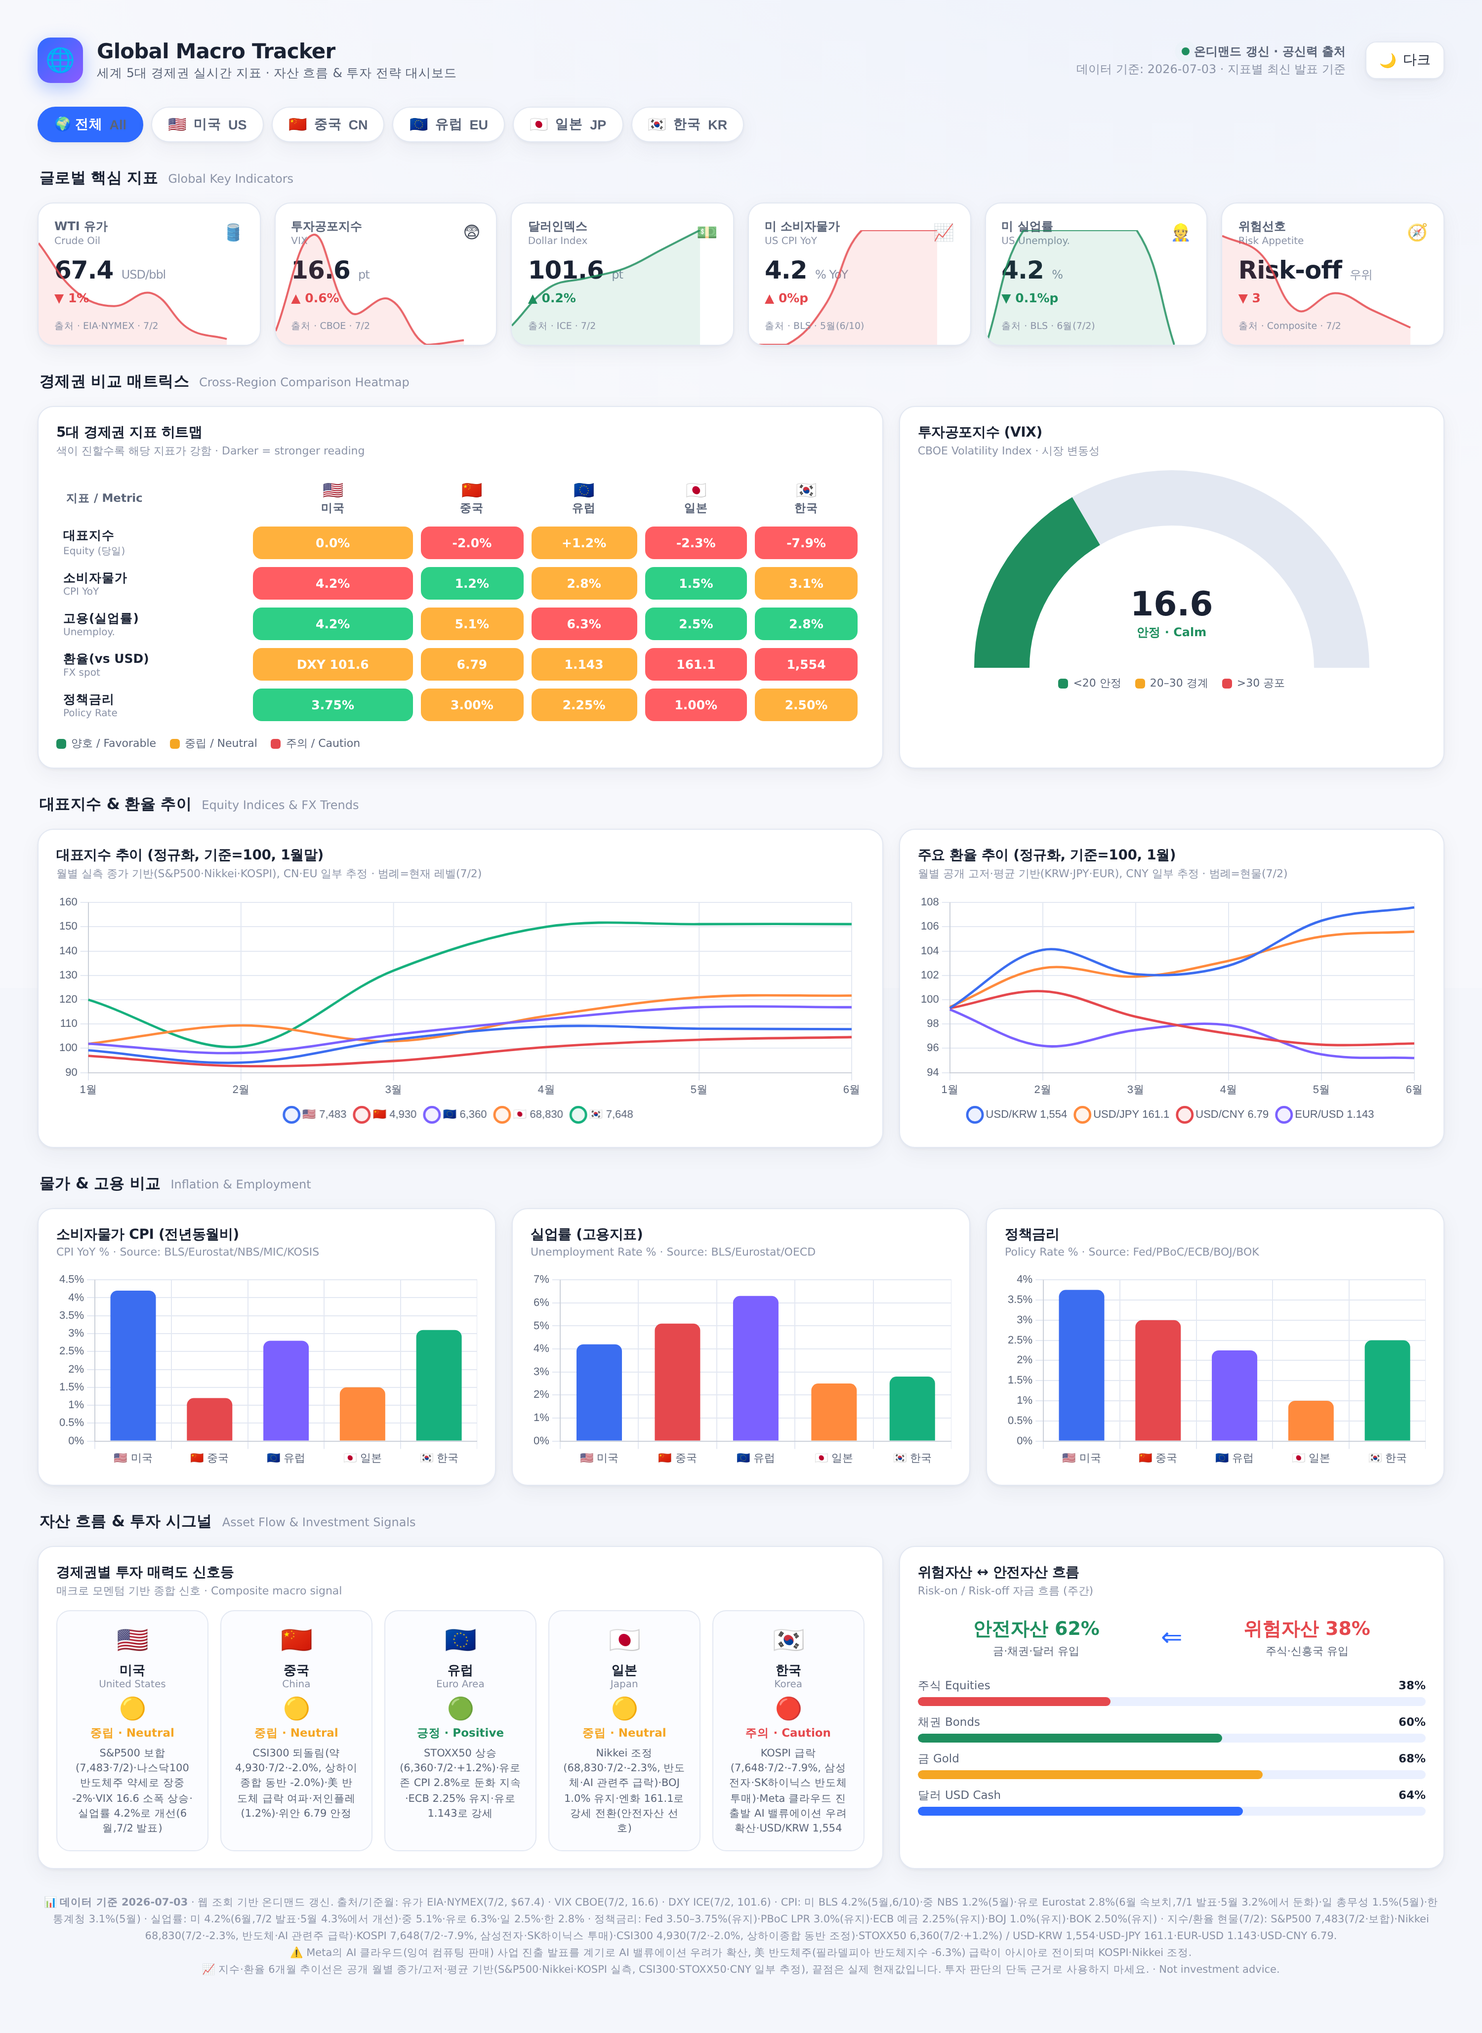
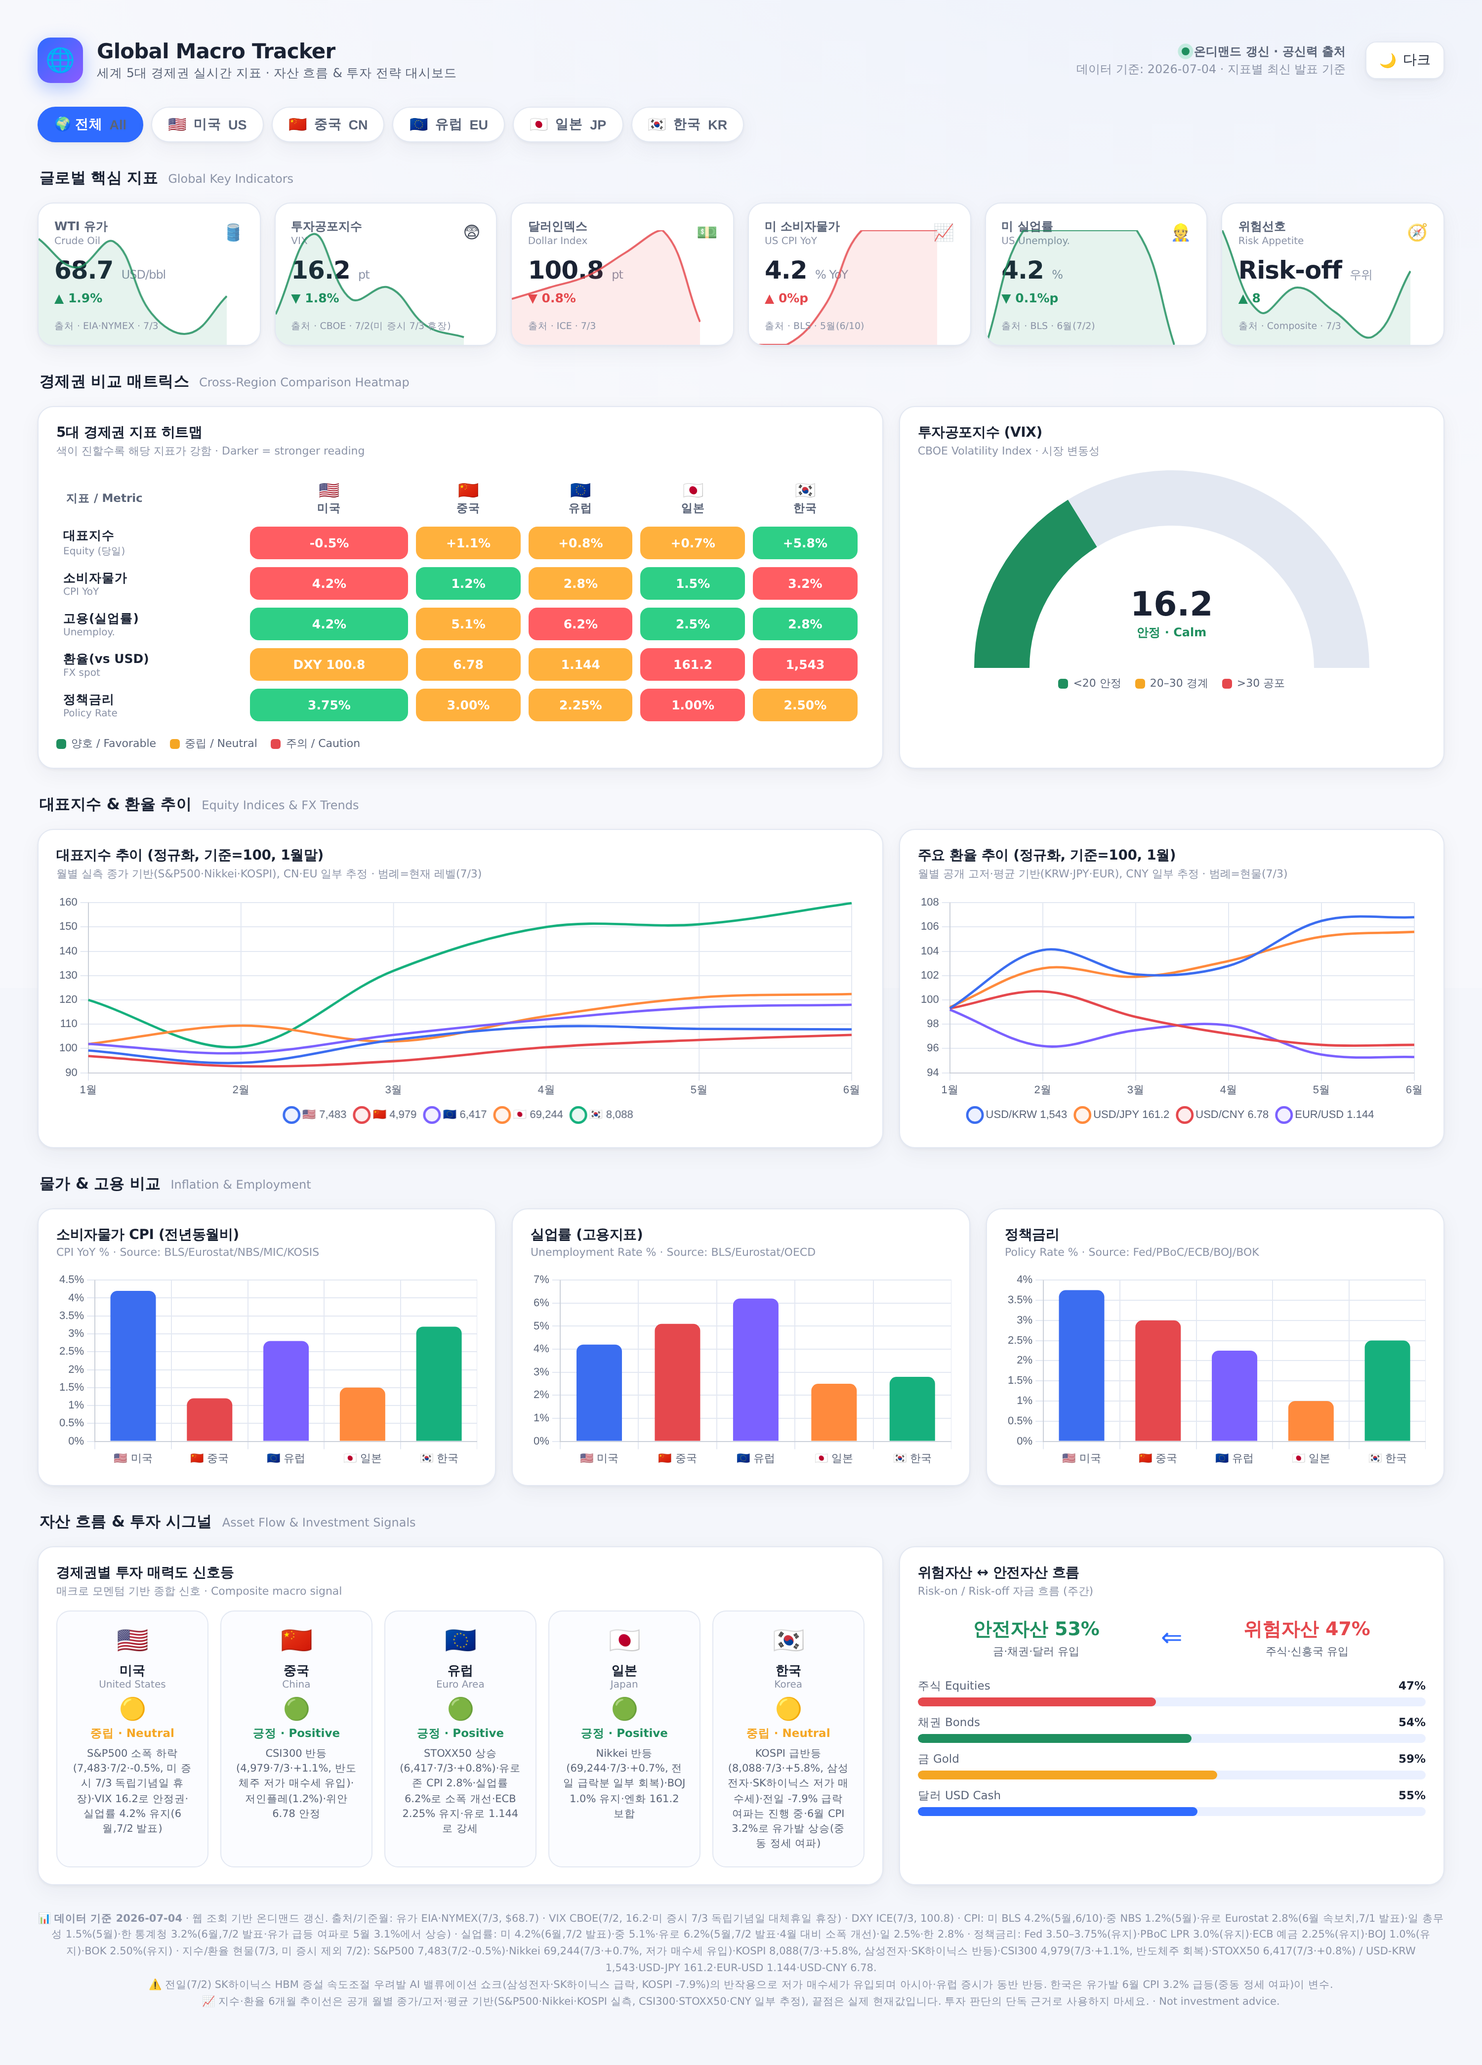
데이터 갱신 2026-07-04: 반도체주 저가매수 유입으로 KOSPI +5.8%·Nikkei·CSI300·STOXX50 동반 반등
- WTI: 67.4 → 68.7(7/3, EIA·NYMEX) · DXY: 101.6 → 100.8(7/3, ICE, 美 고용 둔화 여파)
- VIX: 16.6 → 16.2(7/2 실측치 반영, 미 증시 7/3 독립기념일 대체휴일 휴장)
- KOSPI: 7,648 → 8,088(7/3·+5.8%, 전일 -7.9% 급락 후 삼성전자·SK하이닉스 저가 매수세 유입)
- Nikkei: 68,830 → 69,244(7/3·+0.7%) · CSI300: 4,930 → 4,979(7/3·+1.1%) · STOXX50: 6,360 → 6,417(7/3·+0.8%)
- S&P500 7,483(7/2·-0.5%, 실측 반영) · USD/KRW 1,554→1,543 · USD/JPY 161.1→161.2 · USD/CNY 6.79→6.78 · EUR/USD 1.143→1.144
- 한국 CPI 3.1%→3.2%(6월, 유가 급등 여파) · 유로존 실업률 6.3%→6.2%(5월, 소폭 개선)
- 히트맵·시그널·자산흐름 신호등 갱신(위험선호 Risk-off 완화, 안전자산 53%/위험자산 47%)
- 헤더·푸터 기준일 2026-07-03 → 2026-07-04
- renders/mockup-dark.png / mockup-light.png 재렌더링(콘솔 에러 0)

Claude-Session: https://claude.ai/code/session_011bctqaHYLCamjJRjTs4aDb

diff --git a/index.html b/index.html
@@ -213,7 +213,7 @@
     <div class="spacer"></div>
     <div class="updated">
       <div><span class="live-dot"></span><b>온디맨드 갱신 · 공신력 출처</b></div>
-      <div id="updated-time">데이터 기준: 2026-07-03 · 지표별 최신 발표 기준</div>
+      <div id="updated-time">데이터 기준: 2026-07-04 · 지표별 최신 발표 기준</div>
     </div>
     <button class="theme-toggle" id="themeBtn">🌙 <span id="themeLabel">다크</span></button>
   </header>
@@ -274,12 +274,12 @@
   <div class="grid g-2">
     <div class="card">
       <h3>대표지수 추이 (정규화, 기준=100, 1월말)</h3>
-      <div class="h-en">월별 실측 종가 기반(S&amp;P500·Nikkei·KOSPI), CN·EU 일부 추정 · 범례=현재 레벨(7/2)</div>
+      <div class="h-en">월별 실측 종가 기반(S&amp;P500·Nikkei·KOSPI), CN·EU 일부 추정 · 범례=현재 레벨(7/3)</div>
       <div class="canvas-box"><canvas id="idxChart"></canvas></div>
     </div>
     <div class="card">
       <h3>주요 환율 추이 (정규화, 기준=100, 1월)</h3>
-      <div class="h-en">월별 공개 고저·평균 기반(KRW·JPY·EUR), CNY 일부 추정 · 범례=현물(7/2)</div>
+      <div class="h-en">월별 공개 고저·평균 기반(KRW·JPY·EUR), CNY 일부 추정 · 범례=현물(7/3)</div>
       <div class="canvas-box"><canvas id="fxChart"></canvas></div>
     </div>
   </div>
@@ -329,13 +329,13 @@
   </div>
 
   <div class="footnote">
-    📊 <b>데이터 기준 2026-07-03</b> · 웹 조회 기반 온디맨드 갱신. 출처/기준월:
-    유가 EIA·NYMEX(7/2, $67.4) · VIX CBOE(7/2, 16.6) · DXY ICE(7/2, 101.6) ·
-    CPI: 미 BLS 4.2%(5월,6/10)·중 NBS 1.2%(5월)·유로 Eurostat 2.8%(6월 속보치,7/1 발표·5월 3.2%에서 둔화)·일 총무성 1.5%(5월)·한 통계청 3.1%(5월) ·
-    실업률: 미 4.2%(6월,7/2 발표·5월 4.3%에서 개선)·중 5.1%·유로 6.3%·일 2.5%·한 2.8% ·
+    📊 <b>데이터 기준 2026-07-04</b> · 웹 조회 기반 온디맨드 갱신. 출처/기준월:
+    유가 EIA·NYMEX(7/3, $68.7) · VIX CBOE(7/2, 16.2·미 증시 7/3 독립기념일 대체휴일 휴장) · DXY ICE(7/3, 100.8) ·
+    CPI: 미 BLS 4.2%(5월,6/10)·중 NBS 1.2%(5월)·유로 Eurostat 2.8%(6월 속보치,7/1 발표)·일 총무성 1.5%(5월)·한 통계청 3.2%(6월,7/2 발표·유가 급등 여파로 5월 3.1%에서 상승) ·
+    실업률: 미 4.2%(6월,7/2 발표)·중 5.1%·유로 6.2%(5월,7/2 발표·4월 대비 소폭 개선)·일 2.5%·한 2.8% ·
     정책금리: Fed 3.50–3.75%(유지)·PBoC LPR 3.0%(유지)·ECB 예금 2.25%(유지)·BOJ 1.0%(유지)·BOK 2.50%(유지) ·
-    지수/환율 현물(7/2): S&amp;P500 7,483(7/2·보합)·Nikkei 68,830(7/2·-2.3%, 반도체·AI 관련주 급락)·KOSPI 7,648(7/2·-7.9%, 삼성전자·SK하이닉스 투매)·CSI300 4,930(7/2·-2.0%, 상하이종합 동반 조정)·STOXX50 6,360(7/2·+1.2%) / USD-KRW 1,554·USD-JPY 161.1·EUR-USD 1.143·USD-CNY 6.79.<br/>
-    ⚠ Meta의 AI 클라우드(잉여 컴퓨팅 판매) 사업 진출 발표를 계기로 AI 밸류에이션 우려가 확산, 美 반도체주(필라델피아 반도체지수 -6.3%) 급락이 아시아로 전이되며 KOSPI·Nikkei 조정.<br/>
+    지수/환율 현물(7/3, 미 증시 제외 7/2): S&amp;P500 7,483(7/2·-0.5%)·Nikkei 69,244(7/3·+0.7%, 저가 매수세 유입)·KOSPI 8,088(7/3·+5.8%, 삼성전자·SK하이닉스 반등)·CSI300 4,979(7/3·+1.1%, 반도체주 회복)·STOXX50 6,417(7/3·+0.8%) / USD-KRW 1,543·USD-JPY 161.2·EUR-USD 1.144·USD-CNY 6.78.<br/>
+    ⚠ 전일(7/2) SK하이닉스 HBM 증설 속도조절 우려발 AI 밸류에이션 쇼크(삼성전자·SK하이닉스 급락, KOSPI -7.9%)의 반작용으로 저가 매수세가 유입되며 아시아·유럽 증시가 동반 반등. 한국은 유가발 6월 CPI 3.2% 급등(중동 정세 여파)이 변수.<br/>
     📈 지수·환율 6개월 추이선은 공개 월별 종가/고저·평균 기반(S&amp;P500·Nikkei·KOSPI 실측, CSI300·STOXX50·CNY 일부 추정), 끝점은 실제 현재값입니다. 투자 판단의 단독 근거로 사용하지 마세요. · Not investment advice.
   </div>
 </div>
@@ -357,74 +357,74 @@ const REGIONS = {
 };
 
 const DATA = {
-  // 글로벌 KPI 카드 — 2026-07-03 갱신 (VIX·DXY·WTI 7/2 종가·지수 7/2, Meta발 반도체 급락 반영)
+  // 글로벌 KPI 카드 — 2026-07-04 갱신 (WTI·DXY 7/3, VIX·S&P500·美 지표는 7/2·미 증시 7/3 독립기념일 대체휴일 휴장, 아시아·유럽 증시 7/3 반등 반영)
   kpi: [
-    { id:'wti',  label:'WTI 유가',     en:'Crude Oil',     icon:'🛢', val:'67.4', unit:'USD/bbl', chg:-1.0, src:'EIA·NYMEX · 7/2',
-      spark:[74.1,70.7,69.7,70.6,68.1,67.4] },
-    { id:'vix',  label:'투자공포지수',  en:'VIX',           icon:'😨', val:'16.6', unit:'pt', chg:+0.6, src:'CBOE · 7/2', invert:true,
-      spark:[16.8,18.9,17.2,17.5,16.5,16.6] },
-    { id:'dxy',  label:'달러인덱스',    en:'Dollar Index',  icon:'💵', val:'101.6',unit:'pt', chg:+0.2, src:'ICE · 7/2',
-      spark:[100.6,101.0,101.1,101.2,101.4,101.6] },
+    { id:'wti',  label:'WTI 유가',     en:'Crude Oil',     icon:'🛢', val:'68.7', unit:'USD/bbl', chg:+1.9, src:'EIA·NYMEX · 7/3',
+      spark:[70.7,69.7,70.6,68.1,67.4,68.7] },
+    { id:'vix',  label:'투자공포지수',  en:'VIX',           icon:'😨', val:'16.2', unit:'pt', chg:-1.8, src:'CBOE · 7/2(미 증시 7/3 휴장)', invert:true,
+      spark:[16.8,18.9,17.2,17.5,16.5,16.2] },
+    { id:'dxy',  label:'달러인덱스',    en:'Dollar Index',  icon:'💵', val:'100.8',unit:'pt', chg:-0.8, src:'ICE · 7/3',
+      spark:[101.0,101.1,101.2,101.4,101.6,100.8] },
     { id:'cpi',  label:'미 소비자물가', en:'US CPI YoY',    icon:'📈', val:'4.2', unit:'% YoY', chg:0.0, src:'BLS · 5월(6/10)', invert:true,
       spark:[3.6,3.6,3.8,4.2,4.2,4.2] },
     { id:'emp',  label:'미 실업률',     en:'US Unemploy.',  icon:'👷', val:'4.2', unit:'%', chg:-0.1, src:'BLS · 6월(7/2)', invert:true,
       spark:[4.2,4.3,4.3,4.3,4.3,4.2] },
-    { id:'risk', label:'위험선호',      en:'Risk Appetite', icon:'🧭', val:'Risk-off',unit:'우위', chg:-3.0, src:'Composite · 7/2',
-      spark:[49,46,36,39,36,33] },
+    { id:'risk', label:'위험선호',      en:'Risk Appetite', icon:'🧭', val:'Risk-off',unit:'우위', chg:+8.0, src:'Composite · 7/3',
+      spark:[46,36,39,36,33,41] },
   ],
   // 히트맵: 지표 × 경제권. score 0~100(높을수록 강/양호), d=표시값(실측)
   matrix: [
     { metric:'대표지수', en:'Equity (당일)', fmt:'%',
-      cells:{ US:{d:'0.0%',s:50}, CN:{d:'-2.0%',s:40}, EU:{d:'+1.2%',s:62}, JP:{d:'-2.3%',s:40}, KR:{d:'-7.9%',s:14} } },
+      cells:{ US:{d:'-0.5%',s:46}, CN:{d:'+1.1%',s:64}, EU:{d:'+0.8%',s:60}, JP:{d:'+0.7%',s:60}, KR:{d:'+5.8%',s:78} } },
     { metric:'소비자물가', en:'CPI YoY', fmt:'',
-      cells:{ US:{d:'4.2%',s:35}, CN:{d:'1.2%',s:85}, EU:{d:'2.8%',s:58}, JP:{d:'1.5%',s:78}, KR:{d:'3.1%',s:52} } },
+      cells:{ US:{d:'4.2%',s:35}, CN:{d:'1.2%',s:85}, EU:{d:'2.8%',s:58}, JP:{d:'1.5%',s:78}, KR:{d:'3.2%',s:48} } },
     { metric:'고용(실업률)', en:'Unemploy.', fmt:'',
-      cells:{ US:{d:'4.2%',s:72}, CN:{d:'5.1%',s:55}, EU:{d:'6.3%',s:45}, JP:{d:'2.5%',s:92}, KR:{d:'2.8%',s:88} } },
+      cells:{ US:{d:'4.2%',s:72}, CN:{d:'5.1%',s:55}, EU:{d:'6.2%',s:47}, JP:{d:'2.5%',s:92}, KR:{d:'2.8%',s:88} } },
     { metric:'환율(vs USD)', en:'FX spot', fmt:'',
-      cells:{ US:{d:'DXY 101.6',s:58}, CN:{d:'6.79',s:65}, EU:{d:'1.143',s:68}, JP:{d:'161.1',s:30}, KR:{d:'1,554',s:35} } },
+      cells:{ US:{d:'DXY 100.8',s:60}, CN:{d:'6.78',s:65}, EU:{d:'1.144',s:68}, JP:{d:'161.2',s:30}, KR:{d:'1,543',s:38} } },
     { metric:'정책금리', en:'Policy Rate', fmt:'',
       cells:{ US:{d:'3.75%',s:70}, CN:{d:'3.00%',s:62}, EU:{d:'2.25%',s:56}, JP:{d:'1.00%',s:40}, KR:{d:'2.50%',s:58} } },
   ],
-  // 대표지수: 월별 실측 종가 기반 정규화(기준=100, 1월말). 끝값 라벨=실제 현재 레벨(7/2)
-  // 7/2 Meta발 AI 밸류에이션 우려로 美 반도체주 급락(필라델피아 반도체지수 -6.3%) → 아시아 전이: KOSPI -7.9%(삼성전자·SK하이닉스 투매), Nikkei -2.3%. CSI300도 상하이종합 동반 -2.0% 조정. STOXX50은 +1.2% 상승, S&P500은 보합
+  // 대표지수: 월별 실측 종가 기반 정규화(기준=100, 1월말). 끝값 라벨=실제 현재 레벨(7/3, 미 증시 제외 7/2)
+  // 7/2 SK하이닉스 HBM 증설 속도조절 우려발 AI 밸류에이션 쇼크로 KOSPI -7.9% 급락(삼성전자·SK하이닉스 투매) → 7/3 저가 매수세 유입되며 KOSPI +5.8%·Nikkei +0.7%·CSI300 +1.1%·STOXX50 +0.8% 동반 반등. S&P500은 7/2 -0.5%(미 증시 7/3 독립기념일 휴장)
   indices: {
     labels: MONTHS,
-    levels: { US:'7,483', CN:'4,930', EU:'6,360', JP:'68,830', KR:'7,648' },
+    levels: { US:'7,483', CN:'4,979', EU:'6,417', JP:'69,244', KR:'8,088' },
     series: {
-      US:[99.2,94.1,103.5,109.0,108.1,107.9], CN:[96.9,92.7,94.8,100.5,103.5,104.6],
-      EU:[101.9,98.1,105.6,112.0,116.9,116.9], JP:[101.8,109.4,102.9,113.3,121.0,121.7],
-      KR:[120.0,100.7,132.0,150.0,151.1,151.1],
+      US:[99.2,94.1,103.5,109.0,108.1,107.9], CN:[96.9,92.7,94.8,100.5,103.5,105.6],
+      EU:[101.9,98.1,105.6,112.0,116.9,118.0], JP:[101.8,109.4,102.9,113.3,121.0,122.4],
+      KR:[120.0,100.7,132.0,150.0,151.1,159.8],
     }
   },
-  // 환율: 월별 정규화(기준=100, 1월). 끝값 라벨=실제 현물(7/2)
-  // 반도체 급락발 리스크오프로 JPY 안전자산 선호 강세 전환(161.1), KRW도 소폭 강세(1,554), EUR 강세(1.143), CNY는 보합권(6.79)
+  // 환율: 월별 정규화(기준=100, 1월). 끝값 라벨=실제 현물(7/3)
+  // 아시아 증시 반등에 따른 리스크온 전환으로 KRW 강세(1,543), JPY·CNY는 보합권(161.2·6.78), EUR도 소폭 강세(1.144)
   fx: {
     labels: MONTHS,
-    levels: { 'USD/KRW':'1,554', 'USD/JPY':'161.1', 'USD/CNY':'6.79', 'EUR/USD':'1.143' },
+    levels: { 'USD/KRW':'1,543', 'USD/JPY':'161.2', 'USD/CNY':'6.78', 'EUR/USD':'1.144' },
     series: {
-      'USD/KRW':[99.3,104.1,102.1,102.8,106.5,107.6], 'USD/JPY':[99.4,102.6,101.9,103.2,105.2,105.6],
-      'USD/CNY':[99.3,100.7,98.6,97.2,96.3,96.4], 'EUR/USD':[99.2,96.2,97.5,97.9,95.5,95.2],
+      'USD/KRW':[99.3,104.1,102.1,102.8,106.5,106.8], 'USD/JPY':[99.4,102.6,101.9,103.2,105.2,105.6],
+      'USD/CNY':[99.3,100.7,98.6,97.2,96.3,96.3], 'EUR/USD':[99.2,96.2,97.5,97.9,95.5,95.3],
     }
   },
-  // CPI YoY 실측 (최신 발표월) — 유로존 6월 속보치 2.8%로 둔화(5월 3.2%)
-  cpi: { US:4.2, CN:1.2, EU:2.8, JP:1.5, KR:3.1 },
-  // 실업률 실측 — 美 6월치 4.2%로 개선(7/2 발표, 5월 4.3%)
-  emp: { US:4.2, CN:5.1, EU:6.3, JP:2.5, KR:2.8 },
+  // CPI YoY 실측 (최신 발표월) — 한국 6월 3.2%로 상승(유가 급등 여파, 5월 3.1%)
+  cpi: { US:4.2, CN:1.2, EU:2.8, JP:1.5, KR:3.2 },
+  // 실업률 실측 — 유로존 5월치 6.2%로 소폭 개선(7/2 발표, 4월 6.3%)
+  emp: { US:4.2, CN:5.1, EU:6.2, JP:2.5, KR:2.8 },
   // 정책금리 실측
   rate:{ US:3.75, CN:3.00, EU:2.25, JP:1.00, KR:2.50 },
-  vix: 16.6,
+  vix: 16.2,
   // 투자 시그널 신호등 — 데이터 기반 종합 판단
   signals: {
-    US:{ light:'🟡', verdict:'중립',    vEn:'Neutral',    note:'S&P500 보합(7,483·7/2)·나스닥100 반도체주 약세로 장중 -2%·VIX 16.6 소폭 상승·실업률 4.2%로 개선(6월,7/2 발표)' },
-    CN:{ light:'🟡', verdict:'중립',    vEn:'Neutral',    note:'CSI300 되돌림(약 4,930·7/2·-2.0%, 상하이종합 동반 -2.0%)·美 반도체 급락 여파·저인플레(1.2%)·위안 6.79 안정' },
-    EU:{ light:'🟢', verdict:'긍정',    vEn:'Positive',   note:'STOXX50 상승(6,360·7/2·+1.2%)·유로존 CPI 2.8%로 둔화 지속·ECB 2.25% 유지·유로 1.143로 강세' },
-    JP:{ light:'🟡', verdict:'중립',    vEn:'Neutral',    note:'Nikkei 조정(68,830·7/2·-2.3%, 반도체·AI 관련주 급락)·BOJ 1.0% 유지·엔화 161.1로 강세 전환(안전자산 선호)' },
-    KR:{ light:'🔴', verdict:'주의',    vEn:'Caution',    note:'KOSPI 급락(7,648·7/2·-7.9%, 삼성전자·SK하이닉스 반도체 투매)·Meta 클라우드 진출발 AI 밸류에이션 우려 확산·USD/KRW 1,554' },
+    US:{ light:'🟡', verdict:'중립',    vEn:'Neutral',    note:'S&P500 소폭 하락(7,483·7/2·-0.5%, 미 증시 7/3 독립기념일 휴장)·VIX 16.2로 안정권·실업률 4.2% 유지(6월,7/2 발표)' },
+    CN:{ light:'🟢', verdict:'긍정',    vEn:'Positive',   note:'CSI300 반등(4,979·7/3·+1.1%, 반도체주 저가 매수세 유입)·저인플레(1.2%)·위안 6.78 안정' },
+    EU:{ light:'🟢', verdict:'긍정',    vEn:'Positive',   note:'STOXX50 상승(6,417·7/3·+0.8%)·유로존 CPI 2.8%·실업률 6.2%로 소폭 개선·ECB 2.25% 유지·유로 1.144로 강세' },
+    JP:{ light:'🟢', verdict:'긍정',    vEn:'Positive',   note:'Nikkei 반등(69,244·7/3·+0.7%, 전일 급락분 일부 회복)·BOJ 1.0% 유지·엔화 161.2 보합' },
+    KR:{ light:'🟡', verdict:'중립',    vEn:'Neutral',    note:'KOSPI 급반등(8,088·7/3·+5.8%, 삼성전자·SK하이닉스 저가 매수세)·전일 -7.9% 급락 여파는 진행 중·6월 CPI 3.2%로 유가발 상승(중동 정세 여파)' },
   },
-  // 자산 흐름 (% 자금흐름 강도) — 반도체 급락발 리스크오프 심화, 채권·금·달러로 자금 이동
-  flow: { riskOn: 38, riskOff: 62,
-    bars:[ {k:'주식 Equities', v:38, c:'var(--up)'}, {k:'채권 Bonds', v:60, c:'var(--down)'},
-           {k:'금 Gold', v:68, c:'var(--warn)'}, {k:'달러 USD Cash', v:64, c:'var(--accent)'} ] }
+  // 자산 흐름 (% 자금흐름 강도) — 전일 반도체 밸류에이션 쇼크 이후 저가 매수세 유입, 리스크온 전환
+  flow: { riskOn: 47, riskOff: 53,
+    bars:[ {k:'주식 Equities', v:47, c:'var(--up)'}, {k:'채권 Bonds', v:54, c:'var(--down)'},
+           {k:'금 Gold', v:59, c:'var(--warn)'}, {k:'달러 USD Cash', v:55, c:'var(--accent)'} ] }
 };
 
 /* ===================== THEME ===================== */
